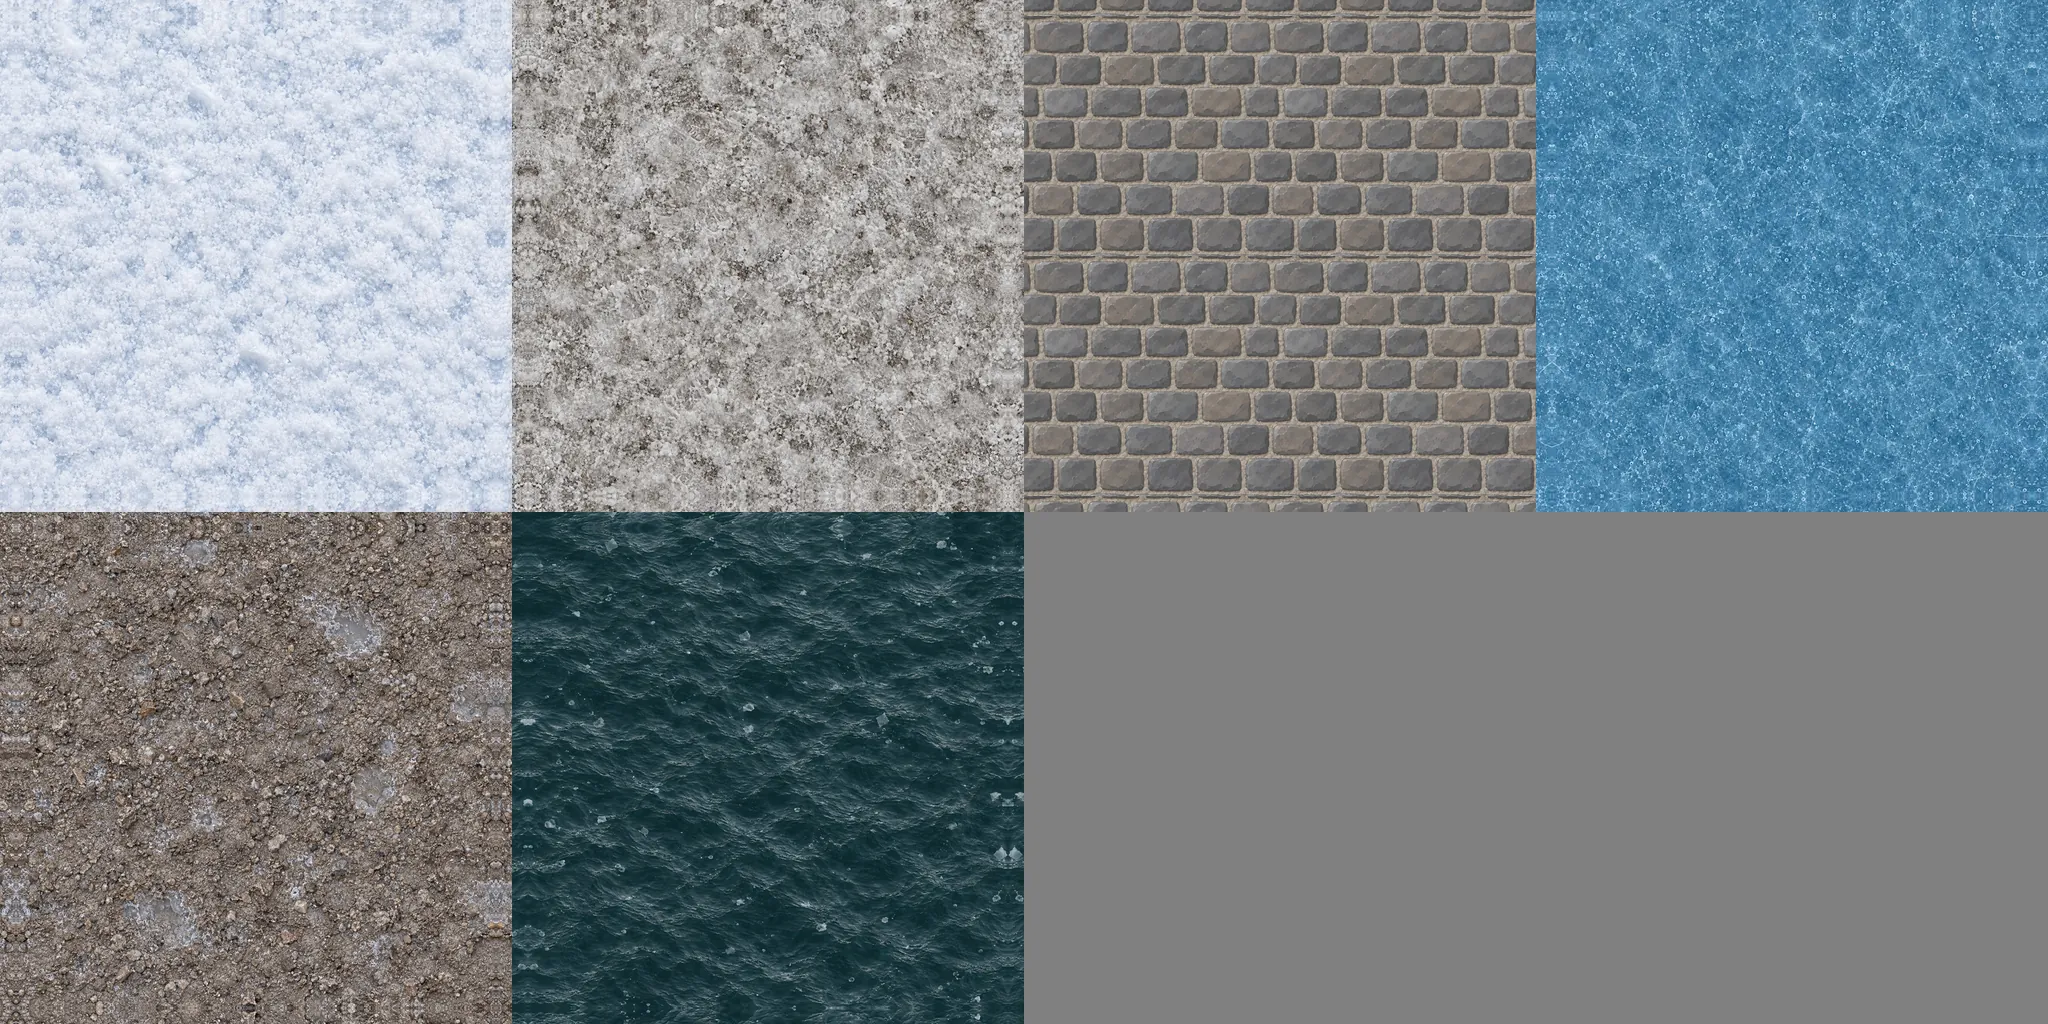
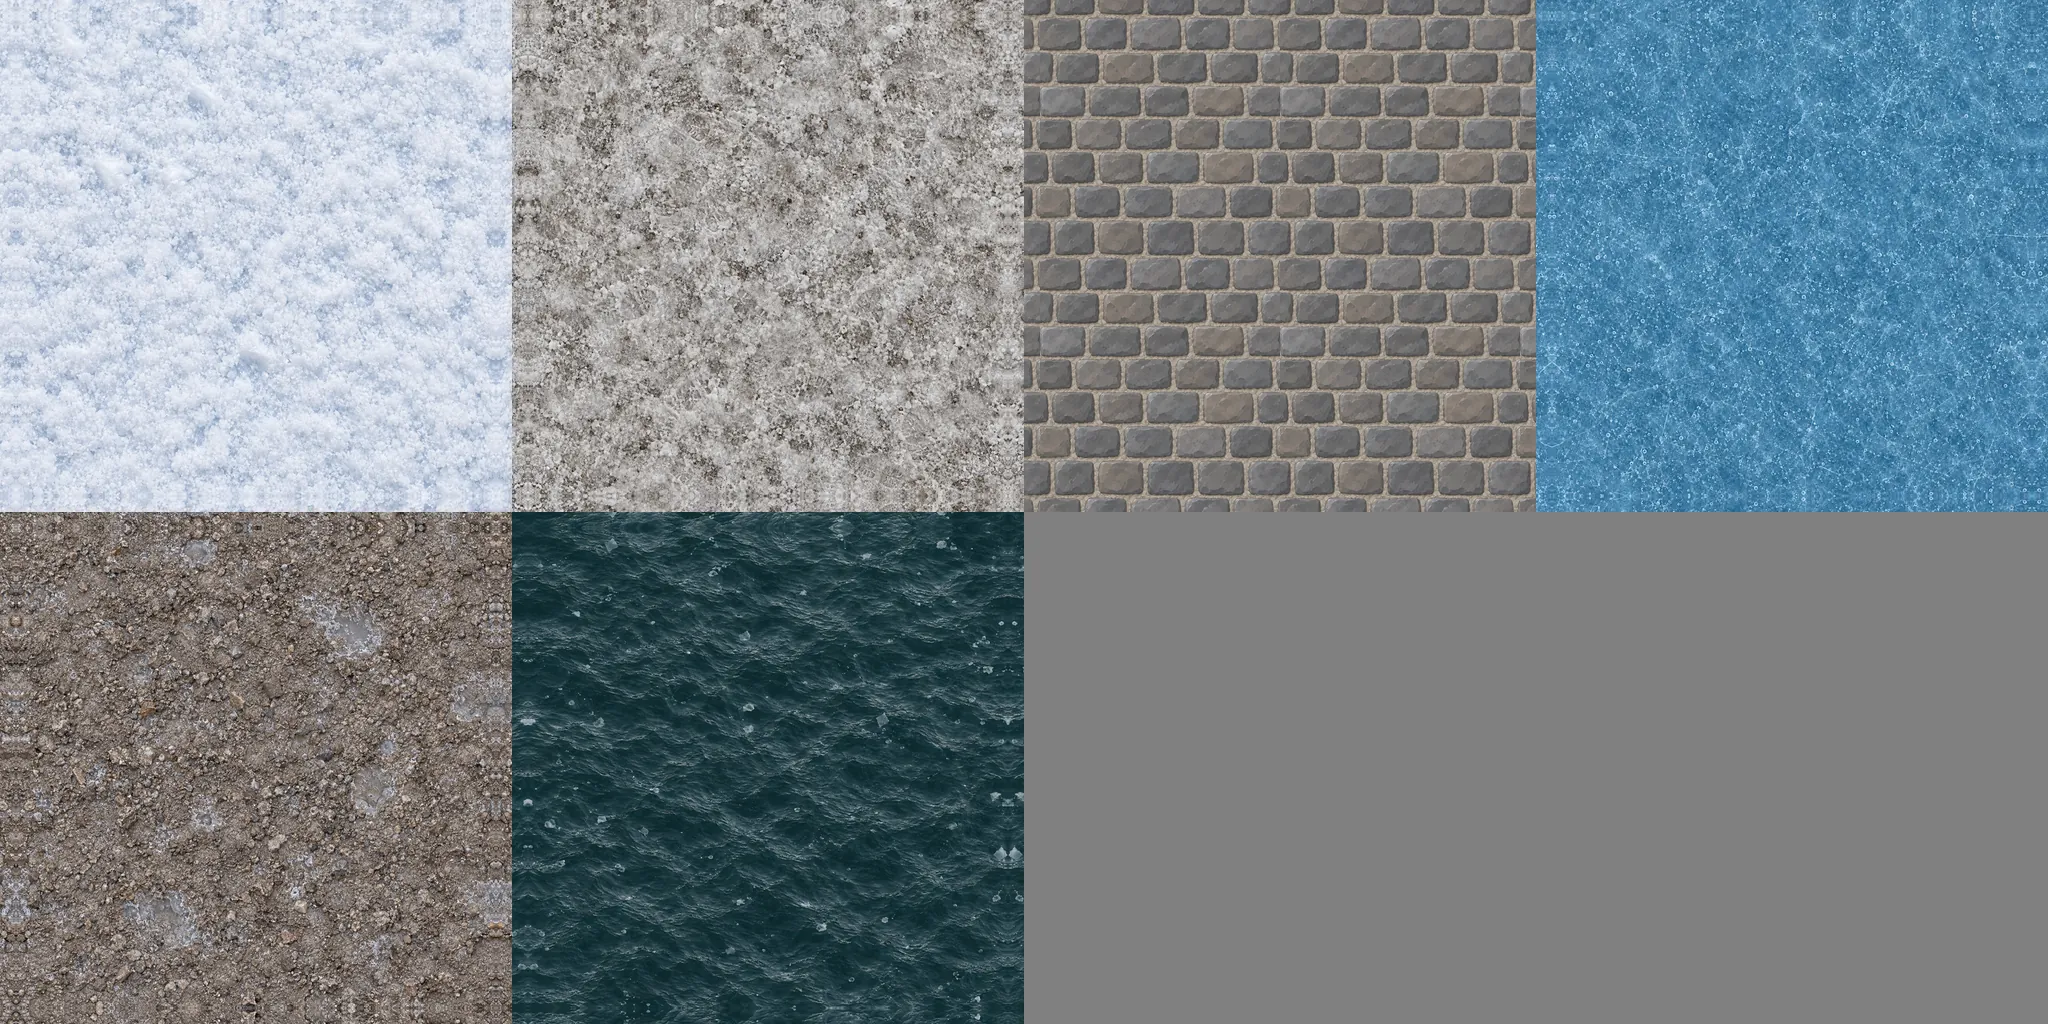
Sharp sett paving at the phone's zoom: ground baked at 1 texel per world px, the sett image cut joint to joint
GROUND_RESOLUTION 0.75 -> 1 (fixed, no re-bake on zoom): +43 MB of GPU texture at the spawn (464 -> 507 MB,
texImage2D hook, 393x873). The Codex sett image had a mortar joint at both its top and bottom rows, so every 3 u a
thin squashed row of stones drew a double line; the input is now cut from joint to joint (y 19-1234).

Changed region(s): [[0.5, 0.0, 0.75, 0.5]]

diff --git a/src/client/render/city/city-layer.ts b/src/client/render/city/city-layer.ts
@@ -57,8 +57,12 @@ const GLINT_DEPTH=CITY_GROUND_DEPTH+2;
 const FOG_DEPTH=CITY_GROUND_DEPTH-1;
 /** Fountain glint: a slow breathing alpha (period ~4 s), the only looping animation (art bible §8.7). */
 const GLINT_PERIOD_MS=4000;
-/** Baked ground: texels per world px (shown scaled back up), and the largest texture side allowed. */
-export const GROUND_RESOLUTION=0.75;
+/**
+ * Baked ground: texels per world px (shown scaled back up), and the largest texture side allowed. Fixed, not following
+ * the zoom (no re-bake mid-match): 1 keeps the setts sharp at the phone's zoom (~0.9) for +43 MB of GPU texture over
+ * 0.75 at the spawn (card chao-pedra-nitida, evidence/medidas.log).
+ */
+export const GROUND_RESOLUTION=1;
 export const GROUND_RT_MAX_PX=2048;
 
 /** Fills a polygon with the current fill style: a convex one as a triangle fan (fan.ts, no earcut), any other through Phaser. */

diff --git a/src/client/render/city/relevo/albedo-meta.ts b/src/client/render/city/relevo/albedo-meta.ts
@@ -6,4 +6,4 @@ export const ALBEDO_GRID={cols:4,rows:2,tile:512,pad:16} as const;
 /** Slots that repeat (2×2 copies in the slot, wrapped padding): the shader reads them with materialTiled. */
 export const ALBEDO_TILED=["calcada"] as const;
 /** Mean colour (0..1 RGB) of each slot's material, in ALBEDO_SLOTS order. */
-export const ALBEDO_MEANS:readonly (readonly [number,number,number])[]=[[0.8157,0.8475,0.9024],[0.6353,0.6199,0.6083],[0.4797,0.4637,0.4503],[0.3014,0.53,0.676],[0.4782,0.4395,0.4175],[0.1441,0.2506,0.2738]];
+export const ALBEDO_MEANS:readonly (readonly [number,number,number])[]=[[0.8157,0.8475,0.9024],[0.6353,0.6199,0.6083],[0.4782,0.4625,0.4495],[0.3014,0.53,0.676],[0.4782,0.4395,0.4175],[0.1441,0.2506,0.2738]];
